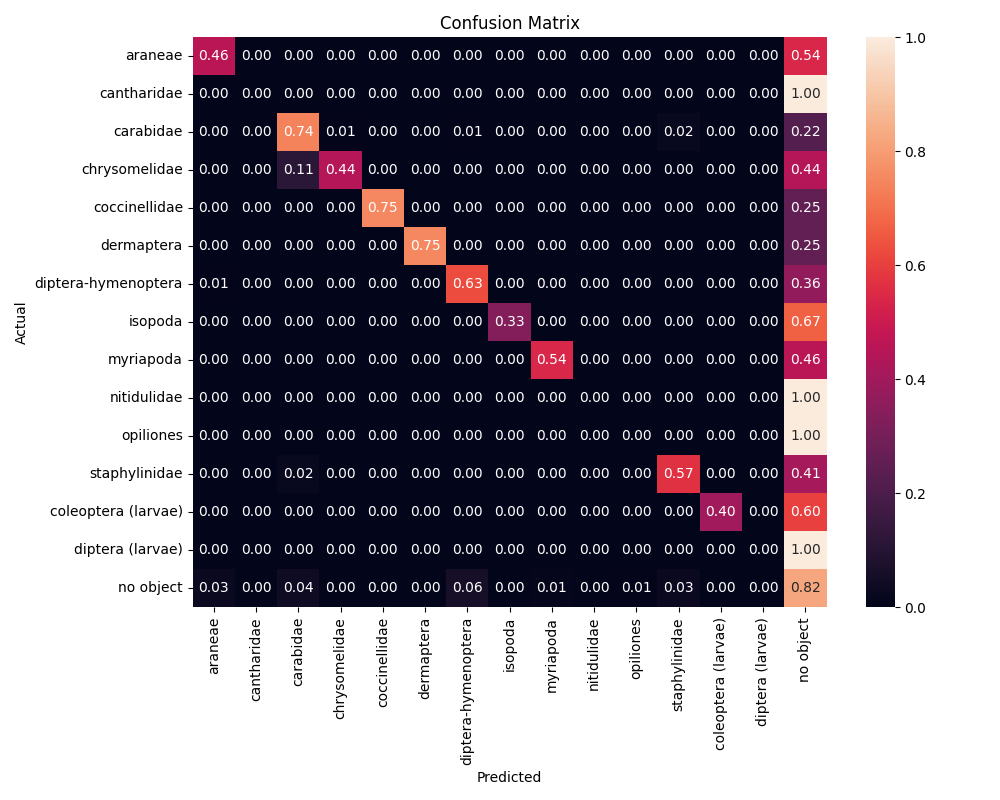
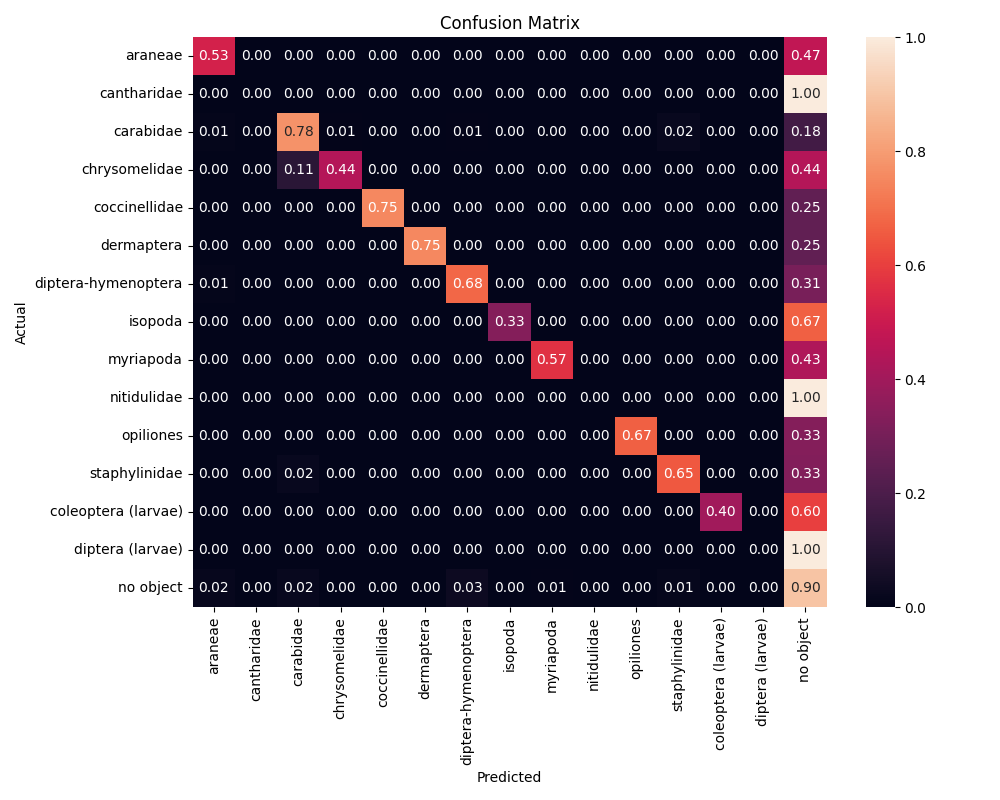
removed the iou threshold, because it is hard to set a specific threshold, since e.g. spiders are so leggy, so the bbox can vary a lot and produce a low iou even though the model was correct in finding the spider

diff --git a/scripts/confusion_matrix.py b/scripts/confusion_matrix.py
@@ -8,6 +8,7 @@ from sklearn.metrics import confusion_matrix
 
 from utils import detectron_model as model
 from utils import coco as cc
+
 def iou(box1, box2):
     x1, y1, x2, y2 = box1  # Unpack coordinates for box1
     x1g, y1g, x2g, y2g = box2  # Unpack coordinates for box2
@@ -59,8 +60,7 @@ def get_true_and_pred_labels(ground_truth_dict: dict, pred_dict: dict, coco_json
                     predictions.append(cls)
                 continue
 
-    
-        # There ARE objected in this image
+        # There ARE objects in this image
         for true_bbox, true_cls in true_labels:
             true_bbox = cc.coco_bbox_to_xyxy(bbox=true_bbox)
             best_iou = 0
@@ -69,7 +69,7 @@ def get_true_and_pred_labels(ground_truth_dict: dict, pred_dict: dict, coco_json
             # Match predicted bboxes with the true bbox based on the best iou (largest overlap)
             for i, pred_bbox in enumerate(pred_bboxes):
                 this_iou = iou(pred_bbox, true_bbox)
-                if this_iou > best_iou and this_iou > 0.5:
+                if this_iou > best_iou:
                     best_iou = this_iou
                     best_pred_idx = i
             '''
@@ -79,12 +79,12 @@ def get_true_and_pred_labels(ground_truth_dict: dict, pred_dict: dict, coco_json
                     best_pred_idx = i'''
            
             if best_pred_idx == -1: 
-                # no pred was found for this ground truth bbox --> false negative
-                ground_truths.append(true_cls-1)
+                # no predicted bbox was found for this ground truth bbox --> false negative
+                ground_truths.append(true_cls)
                 predictions.append(-1)
             else: 
                 # we found a predicted bbox for this true bbox --> true positive
-                ground_truths.append(true_cls-1)
+                ground_truths.append(true_cls)
                 predictions.append(pred_classes[best_pred_idx]) # (but the class might still be wrong)
                 matched.add(best_pred_idx)                      # remember that we already assigned this prediction to a true label
 
